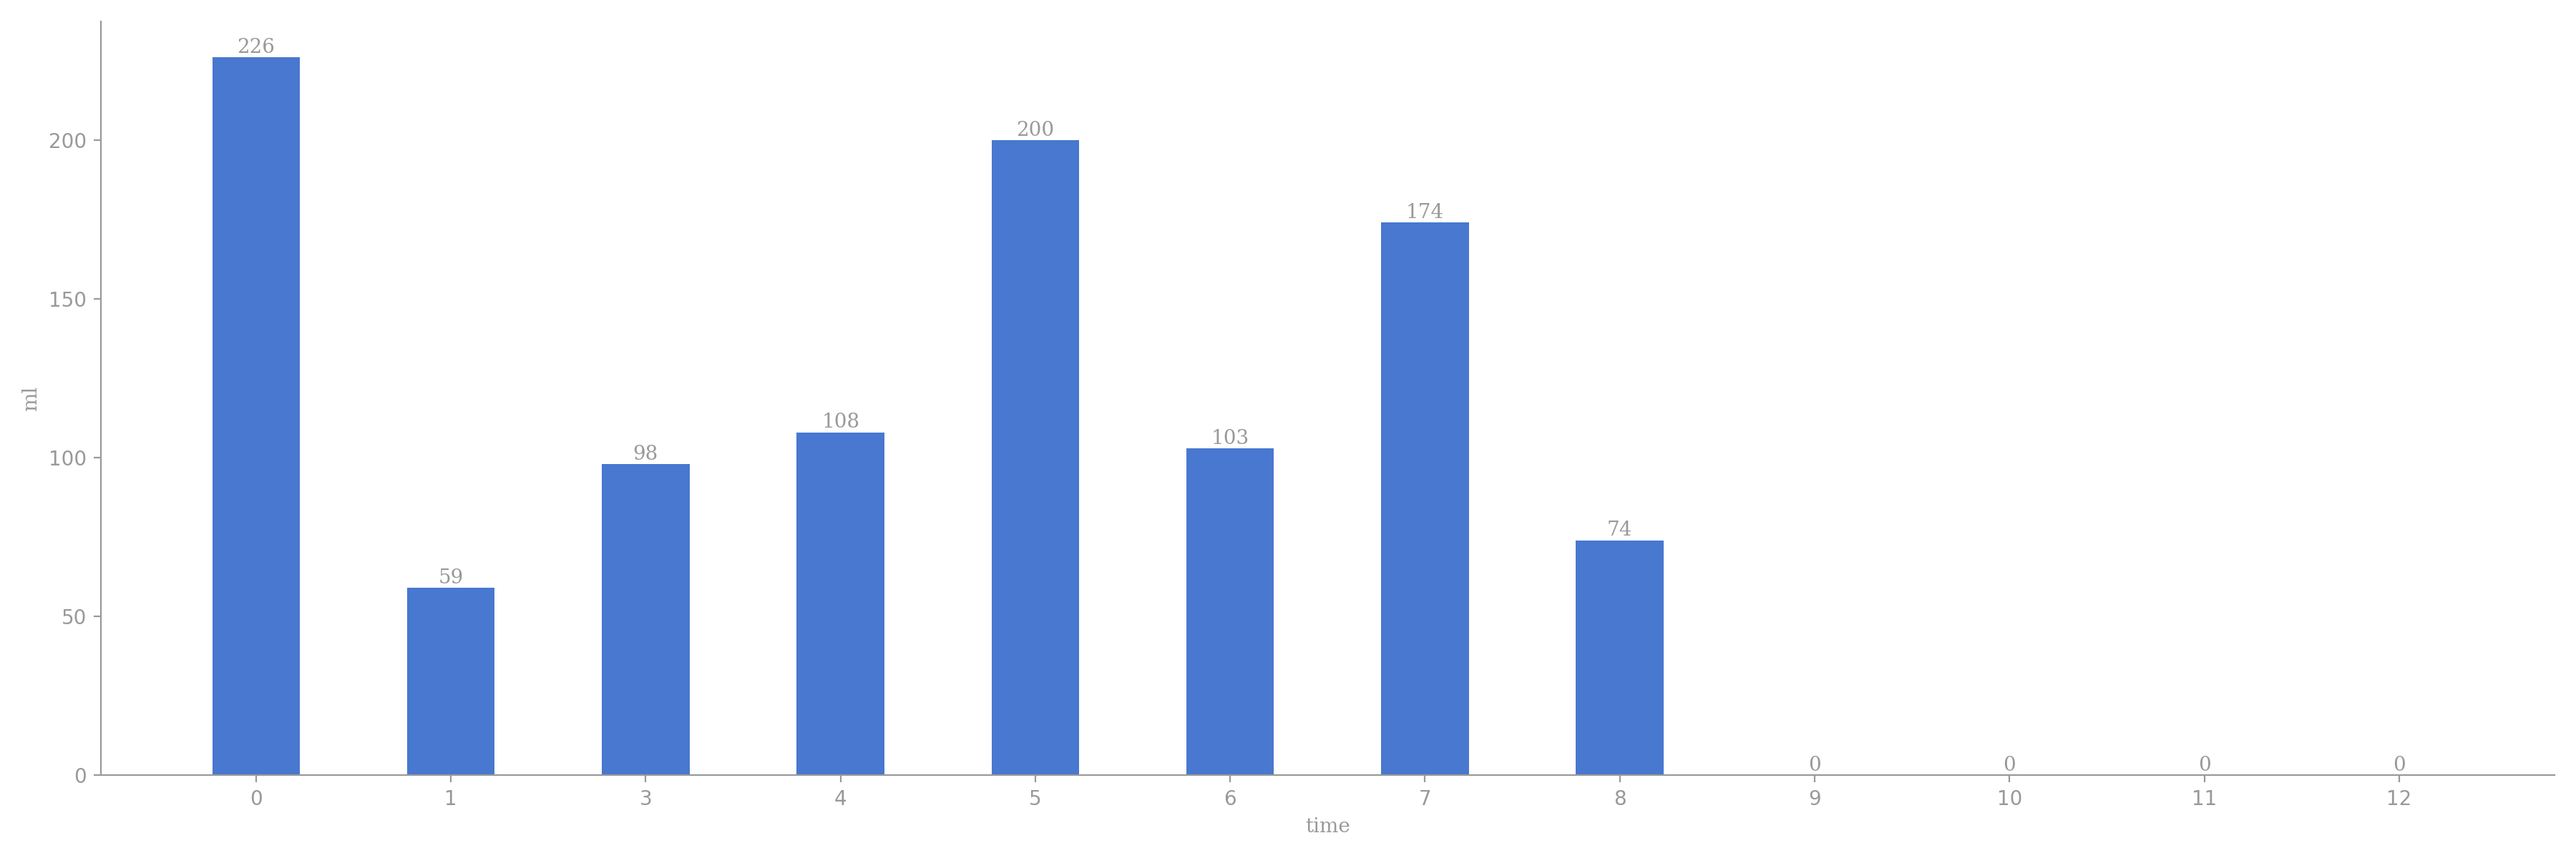
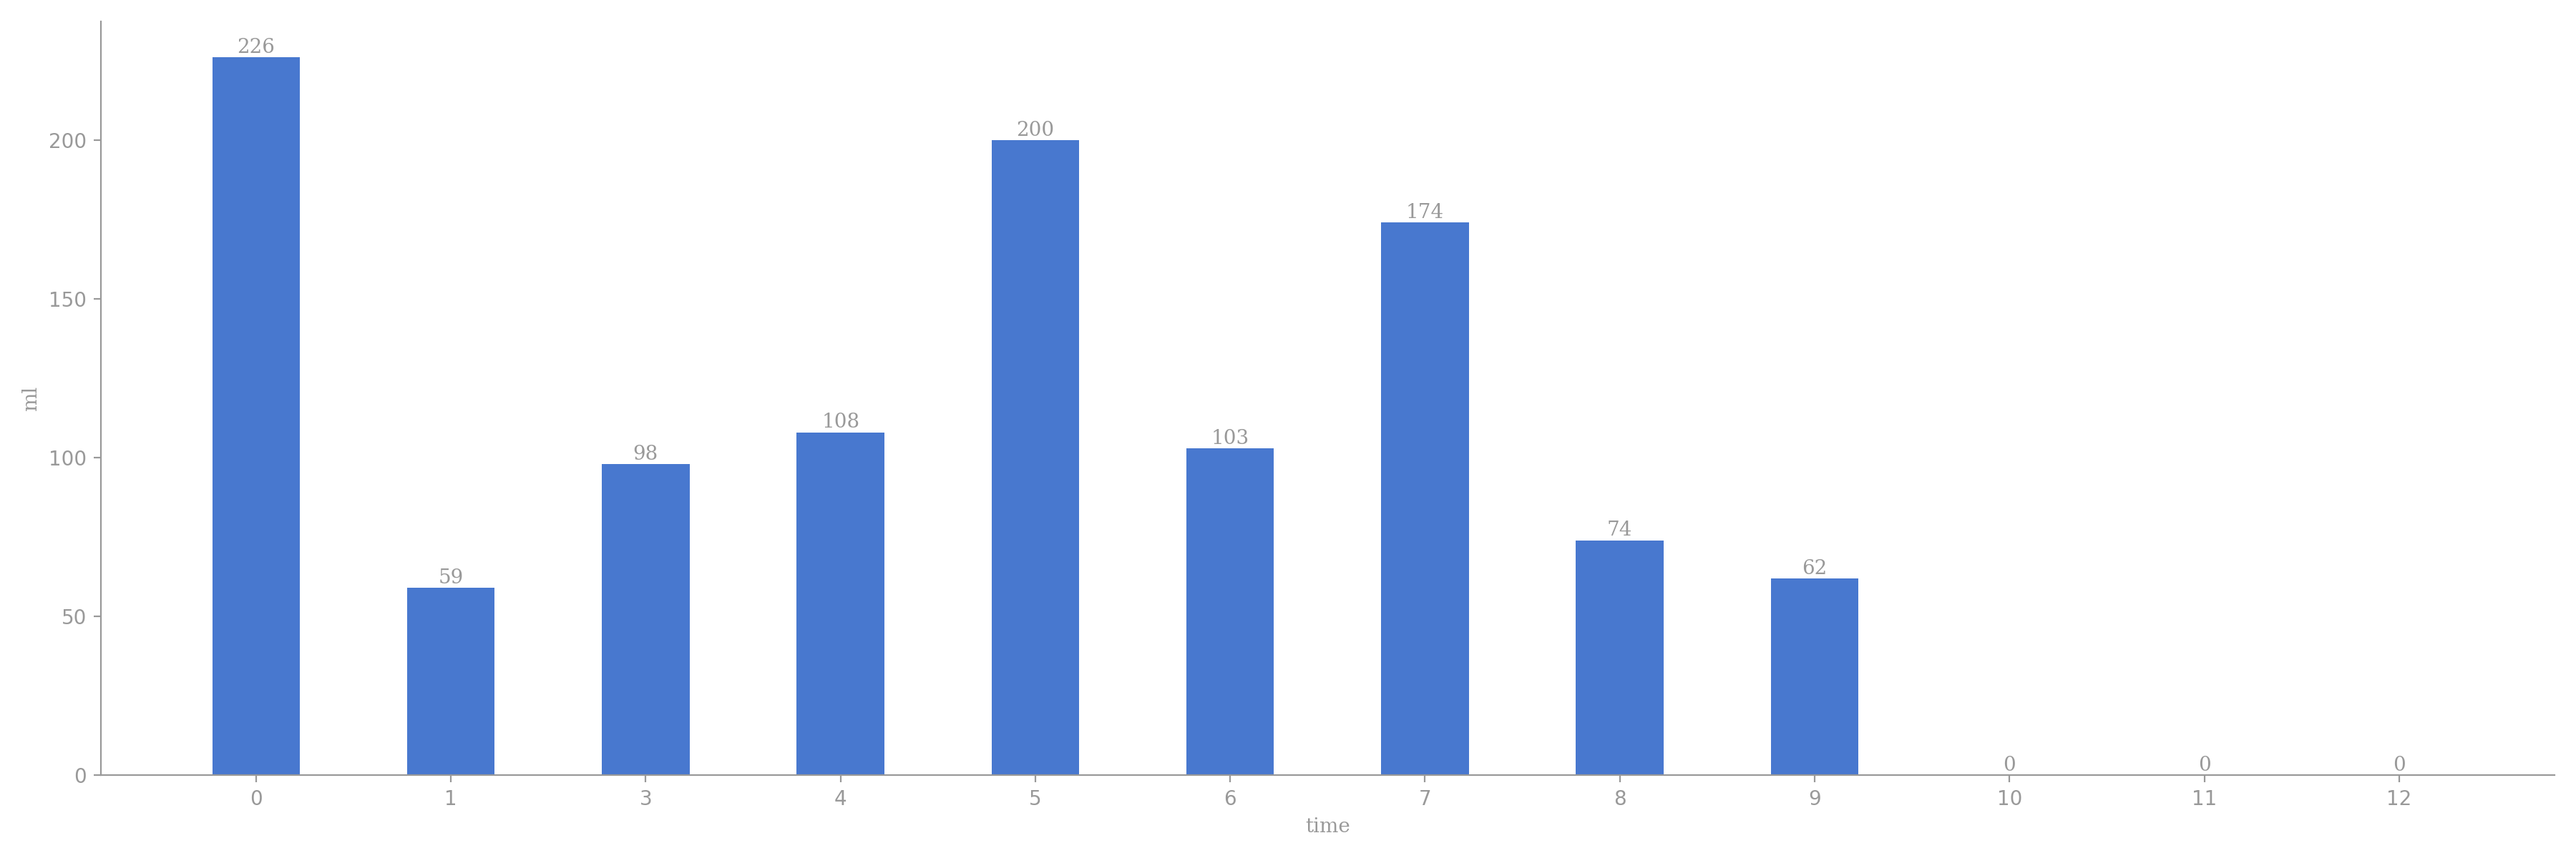
generated readme

Changed region(s): [[0.6844, 0.6475, 0.7467, 0.925]]

diff --git a/README.md b/README.md
@@ -5,12 +5,12 @@
 
 | 今日总饮水量 | 每小时平均饮水量 |
 | :----: | :----: |
-| 1042 | 130 |
+| 1104 | 122 |
 </div>
 
-| 日期 | 00:09:48 | 00:35:18 | 01:30:13 | 03:00:25 | 04:00:40 | 05:37:34 | 06:05:51 | 07:06:45 | 07:50:20 | 08:38:00 |
-| :----: | :----: | :----: | :----: | :----: | :----: | :----: | :----: | :----: | :----: | :----: |
-| 2024-08-17 | 143 | 83 | 59 | 98 | 108 | 200 | 103 | 85 | 89 | 74 |
+| 日期 | 00:09:48 | 00:35:18 | 01:30:13 | 03:00:25 | 04:00:40 | 05:37:34 | 06:05:51 | 07:06:45 | 07:50:20 | 08:38:00 | 09:12:57 |
+| :----: | :----: | :----: | :----: | :----: | :----: | :----: | :----: | :----: | :----: | :----: | :----: |
+| 2024-08-17 | 143 | 83 | 59 | 98 | 108 | 200 | 103 | 85 | 89 | 74 | 62 |
 
 # 近30日饮水数据
 
